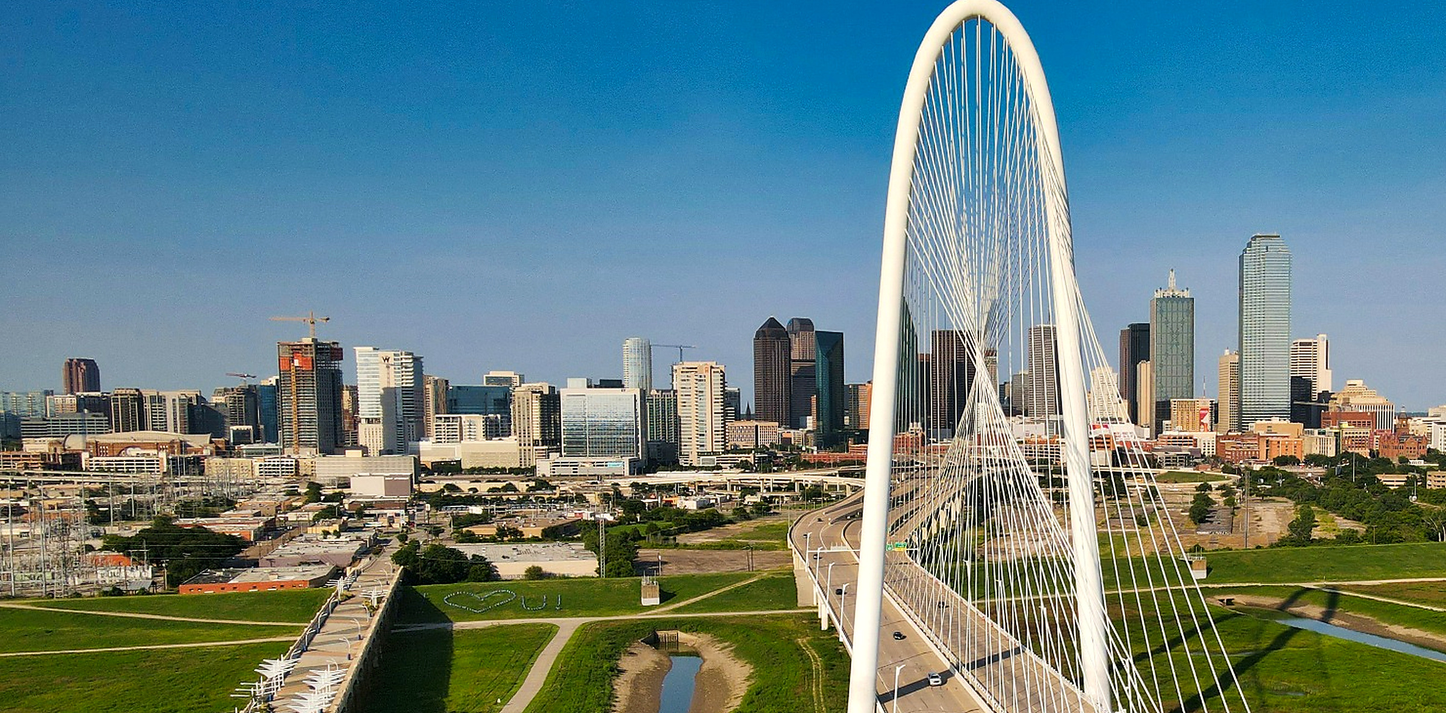
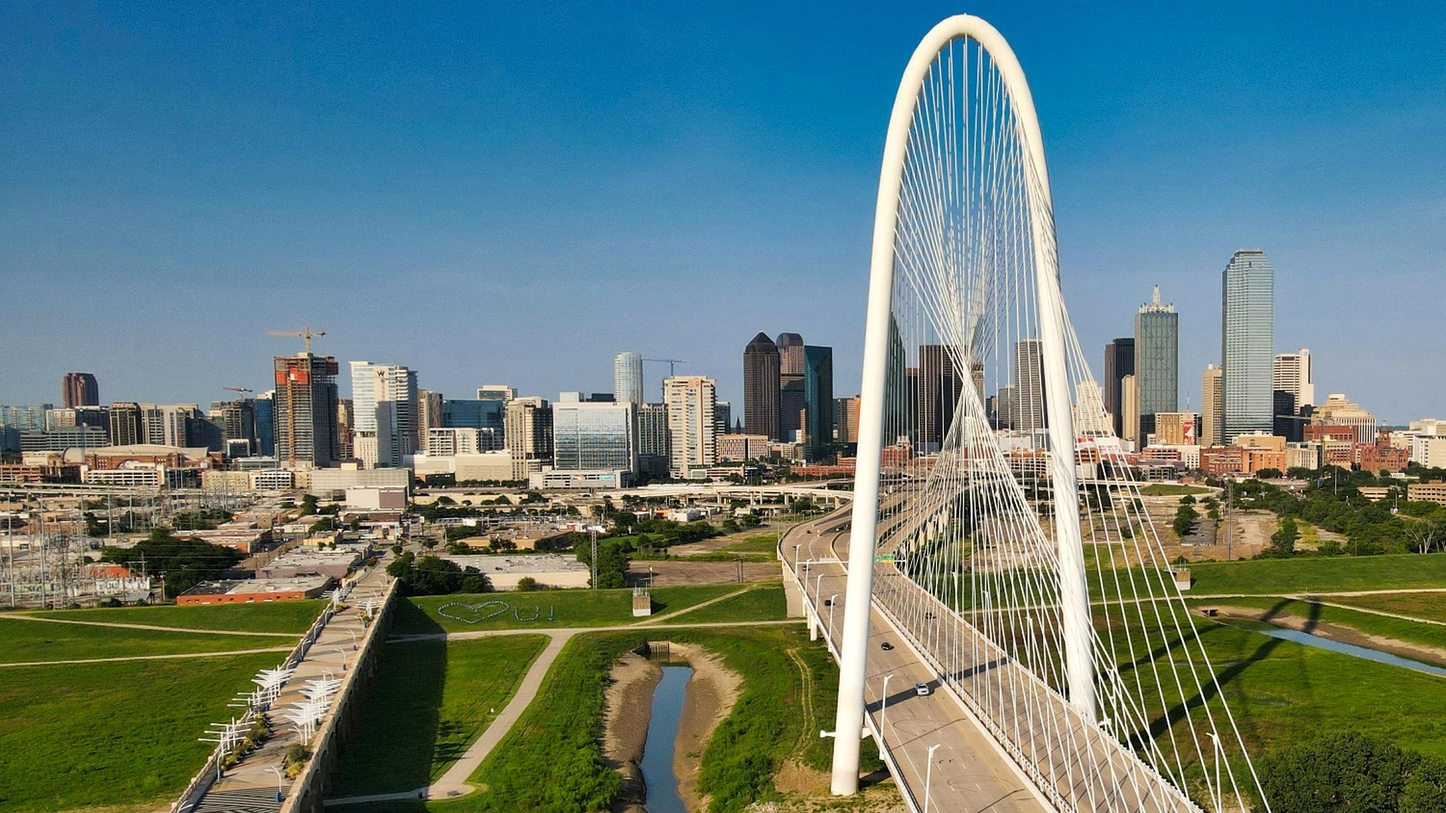
Modern Header and Typography Polish
Modern Header and Typography Polish

diff --git a/index.html b/index.html
@@ -7,24 +7,24 @@
 <meta content="Latitude Stone Real Estate Group provides strategic commercial real estate advisory and brokerage services across North Texas." name="description"/>
 <meta content="#040b12" name="theme-color"/>
 <title>Latitude Stone Real Estate Group</title>
-<link href="https://fonts.googleapis.com" rel="preconnect"/>
-<link crossorigin="" href="https://fonts.gstatic.com" rel="preconnect"/>
-<link href="https://fonts.googleapis.com/css2?family=DM+Sans:wght@300;400;500;600&amp;family=Libre+Caslon+Display&amp;display=swap" rel="stylesheet"/>
+
+
+
 <link href="styles.css" rel="stylesheet"/>
 </head>
-<body>
+<body class="home-page">
 <header class="site-header">
 <a aria-label="Latitude Stone home" class="wordmark" href="#home"><strong>LATITUDE STONE</strong><span>REAL ESTATE GROUP</span></a>
 <button aria-expanded="false" aria-label="Open navigation" class="menu-toggle"><span></span><span></span></button>
 <nav aria-label="Primary navigation">
 <a class="active" href="#home">Home</a>
-<a href="#what-we-do">What We Do</a>
-<a href="#market">Our Market</a>
+<a href="#what-we-do">What we do</a>
+<a href="#market">Our market</a>
 <a href="#darin">Meet Darin</a>
 <a href="#why">Why Latitude Stone</a>
-<a href="#insights">Market Intelligence</a>
+<a href="#insights">Market intelligence</a>
 </nav>
-<a class="outline-button header-cta" href="#contact">Schedule a Consultation</a>
+<a class="outline-button header-cta" href="#contact">Schedule a consultation</a>
 </header>
 <main>
 <section aria-label="Latitude Stone introduction" class="hero" id="home">
@@ -37,7 +37,7 @@
 <div class="hero-copy reveal">
 <h1>A Higher Perspective on Commercial Real Estate.</h1>
 <p class="hero-lead">Strategic advisory for investors, developers, property owners, and businesses across North Texas.</p>
-<a class="gold-button" href="#contact">Start the Conversation <span>→</span></a>
+<a class="gold-button" href="#contact">Start the conversation <span>→</span></a>
 </div>
 <div aria-label="Hero image controls" class="hero-dots">
 <button aria-label="Show architecture image" class="active"></button>
@@ -47,47 +47,47 @@
 </section>
 <section class="section section-dark services" id="what-we-do">
 <div class="section-heading reveal">
-<p class="eyebrow">What We Do</p>
-<h2>Strategic Solutions. Lasting Value.</h2>
+<p class="eyebrow">What we do</p>
+<h2>Strategic solutions. Lasting value.</h2>
 </div>
 <div class="service-grid">
 <article class="service-card reveal">
-<span aria-hidden="true" class="title-gold-rule"></span>
-<h3>Advisory Services</h3>
+
+<span class="title-divider"></span><h3>Advisory services</h3>
 <p>Strategic planning, market analysis, and tailored real estate guidance aligned with your investment goals and long-term business strategy.</p>
 </article>
 <article class="service-card reveal">
-<span aria-hidden="true" class="title-gold-rule"></span>
-<h3>Investment Sales</h3>
+
+<span class="title-divider"></span><h3>Investment sales</h3>
 <p>Positioning commercial assets to maximize value through targeted marketing, qualified buyer relationships, and disciplined transaction execution.</p>
 </article>
 <article class="service-card reveal">
-<span aria-hidden="true" class="title-gold-rule"></span>
-<h3>Property Disposition</h3>
+
+<span class="title-divider"></span><h3>Property disposition</h3>
 <p>Strategic planning and transaction execution designed to maximize asset value while delivering a seamless disposition process.</p>
 </article>
 <article class="service-card reveal">
-<span aria-hidden="true" class="title-gold-rule"></span>
-<h3>Tenant Representation</h3>
+
+<span class="title-divider"></span><h3>Tenant representation</h3>
 <p>Helping businesses secure the right location, negotiate favorable terms, and create occupancy strategies that support long-term success.</p>
 </article>
 <article class="service-card reveal">
-<span aria-hidden="true" class="title-gold-rule"></span>
-<h3>Property &amp; Asset Management</h3>
+
+<span class="title-divider"></span><h3>Property &amp; asset management</h3>
 <p>Protecting long-term asset value through proactive management, operational oversight, tenant coordination, and consistent financial discipline.</p>
 </article>
 </div>
 </section>
 <section class="section section-light market" id="market">
 <div class="market-copy reveal">
-<p class="eyebrow">Our Market</p>
-<h2>North Texas.<br/>Limitless Opportunities.</h2>
+<p class="eyebrow">Our market</p>
+<h2>North Texas.<br/>Limitless opportunities.</h2>
 <p class="body-copy">Latitude Stone provides strategic commercial real estate advisory and brokerage services across North Texas. From established urban centers to the region’s fastest-growing communities, we help clients capitalize on opportunities with confidence.</p>
 <div class="market-points">
-<article><span aria-hidden="true" class="title-gold-rule market-gold-rule"></span><div><h3>Regional Coverage</h3><p>Serving North Texas with local expertise and regional perspective.</p></div></article>
-<article><span aria-hidden="true" class="title-gold-rule market-gold-rule"></span><div><h3>Key Markets</h3><p>Frisco · Plano · McKinney · Prosper / Celina · Las Colinas · Melissa / Anna</p></div></article>
-<article><span aria-hidden="true" class="title-gold-rule market-gold-rule"></span><div><h3>Property Expertise</h3><p>Office · Industrial · Retail · Land · Mixed-Use</p></div></article>
-<article><span aria-hidden="true" class="title-gold-rule market-gold-rule"></span><div><h3>Market Intelligence</h3><p>Data-driven insights that support better real estate decisions.</p></div></article>
+<article><div><span class="title-divider market-divider"></span><h3>Regional coverage</h3><p>Serving North Texas with local expertise and regional perspective.</p></div></article>
+<article><div><span class="title-divider market-divider"></span><h3>Key markets</h3><p>Frisco · Plano · McKinney · Prosper / Celina · Las Colinas · Melissa / Anna</p></div></article>
+<article><div><span class="title-divider market-divider"></span><h3>Property expertise</h3><p>Office · Industrial · Retail · Land · Mixed-Use</p></div></article>
+<article><div><span class="title-divider market-divider"></span><h3>Market intelligence</h3><p>Data-driven insights that support better real estate decisions.</p></div></article>
 </div>
 </div>
 <div aria-label="Dallas Fort Worth Metroplex market map" class="market-map" role="img"></div>
@@ -96,49 +96,49 @@
 <div class="portrait-wrap reveal"><img alt="Darin Vilhauer, founder of Latitude Stone Real Estate Group" src="assets/darin-vilhauer.jpg"/></div>
 <div class="darin-copy reveal">
 <p class="eyebrow darin-eyebrow">Meet Darin</p>
-<h2>Experience That Brings Perspective.</h2>
+<h2>Experience that brings perspective.</h2>
 <p>Darin Vilhauer is a strategic real estate and operations executive with more than two decades of experience growing multi-unit businesses, improving performance, and maximizing portfolio value.</p>
 <p>Through Latitude Stone, Darin brings an owner-minded perspective to commercial real estate, combining market intelligence, disciplined execution, and a clear understanding of the operational decisions behind every property.</p>
 <p>His approach is straightforward: understand the client’s objectives, evaluate the opportunity from every angle, and provide thoughtful advice designed to create lasting value.</p>
 <div aria-label="Darin Vilhauer experience highlights" class="darin-details">
 <span>20+ Years of Leadership</span><span>$20M+ Closed Transactions</span><span>North Texas Focus</span>
 </div>
-<a class="gold-button compact" href="about.html">Read Darin’s Story <span>→</span></a>
+<a class="gold-button compact" href="about.html">Read Darin’s story <span>→</span></a>
 </div>
 </section>
 <section class="section section-dark why" id="why">
 <div class="why-intro reveal">
 <p class="eyebrow">Why Latitude Stone</p>
-<h2>Built on Strategy.<br/>Driven by Relationships.</h2>
+<h2>Built on strategy.<br/>Driven by relationships.</h2>
 <p>We help investors, businesses, and property owners make confident commercial real estate decisions that create lasting value.</p>
 </div>
 <div class="pillars">
-<article class="reveal"><span aria-hidden="true" class="title-gold-rule pillar-gold-rule"></span><h3>Strategic<br/>Advisory</h3><p>Every recommendation begins with understanding your objectives, not simply closing a transaction.</p></article>
-<article class="reveal"><span aria-hidden="true" class="title-gold-rule pillar-gold-rule"></span><h3>Trusted<br/>Relationships</h3><p>Long-term partnerships built through transparency, responsiveness, and accountability.</p></article>
-<article class="reveal"><span aria-hidden="true" class="title-gold-rule pillar-gold-rule"></span><h3>Local<br/>Expertise</h3><p>Deep knowledge of North Texas markets helps clients move with confidence.</p></article>
-<article class="reveal"><span aria-hidden="true" class="title-gold-rule pillar-gold-rule"></span><h3>Disciplined<br/>Execution</h3><p>From pricing strategy to closing, every detail is managed with precision.</p></article>
+<article class="reveal"><span class="title-divider pillar-divider"></span><h3>Strategic advisory</h3><p>Every recommendation begins with understanding your objectives, not simply closing a transaction.</p></article>
+<article class="reveal"><span class="title-divider pillar-divider"></span><h3>Trusted relationships</h3><p>Long-term partnerships built through transparency, responsiveness, and accountability.</p></article>
+<article class="reveal"><span class="title-divider pillar-divider"></span><h3>Local expertise</h3><p>Deep knowledge of North Texas markets helps clients move with confidence.</p></article>
+<article class="reveal"><span class="title-divider pillar-divider"></span><h3>Disciplined execution</h3><p>From pricing strategy to closing, every detail is managed with precision.</p></article>
 </div>
 </section>
 <section class="section section-light insights" id="insights">
 <div class="insight-intro reveal">
-<p class="eyebrow">Market Intelligence</p>
-<h2>Insights That Drive Results.</h2>
+<p class="eyebrow">Market intelligence</p>
+<h2>Insights that drive results.</h2>
 <p>Timely market perspectives and practical insights to help you make smarter commercial real estate decisions.</p>
 </div>
 <div class="insight-grid">
-<article class="reveal"><img alt="Dallas skyline at sunset" src="assets/insight-market.jpg"/><div><small>Market Outlook</small><h3>Q3 North Texas Market Outlook</h3><p>5 min read  ·  Read Insight →</p></div></article>
+<article class="reveal"><img alt="Dallas skyline at sunset" src="assets/insight-market.jpg"/><div><small>Market outlook</small><h3>Q3 North Texas Market Outlook</h3><p>5 min read  ·  Read Insight →</p></div></article>
 <article class="reveal"><img alt="Commercial development under construction" src="assets/insight-construction.jpg"/><div><small>Development</small><h3>Industrial Development Pipeline Remains Strong</h3><p>4 min read  ·  Read Insight →</p></div></article>
-<article class="reveal"><img alt="Mixed-use commercial development" src="assets/insight-mixed-use.jpg"/><div><small>Investment Insight</small><h3>Capital Markets Update: Opportunities Ahead</h3><p>6 min read  ·  Read Insight →</p></div></article>
+<article class="reveal"><img alt="Mixed-use commercial development" src="assets/insight-mixed-use.jpg"/><div><small>Investment insight</small><h3>Capital Markets Update: Opportunities Ahead</h3><p>6 min read  ·  Read Insight →</p></div></article>
 </div>
 </section>
 <section class="contact-cta" id="contact">
 <div class="cta-inner reveal">
 <div>
-<p class="eyebrow">Ready to Get Started?</p>
-<h2>Let’s Discuss Your Commercial Real Estate Goals.</h2>
+<p class="eyebrow">Ready to get started?</p>
+<h2>Let’s discuss your commercial real estate goals.</h2>
 <p>Whether you’re buying, selling, leasing, or investing, we’re ready to help you navigate your next opportunity.</p>
 </div>
-<a class="gold-button cta-button" href="mailto:info@latitudestonerealestate.com">Schedule a Consultation <span>→</span></a>
+<a class="gold-button cta-button" href="mailto:info@latitudestonerealestate.com">Schedule a consultation <span>→</span></a>
 </div>
 </section>
 </main>
@@ -146,8 +146,8 @@
 <div class="footer-grid">
 <div class="footer-brand"><strong>LATITUDE STONE</strong><span>REAL ESTATE GROUP</span><p>Boutique commercial real estate advisory and brokerage services throughout North Texas.</p></div>
 <div><b>Company</b><a href="#darin">About Us</a><a href="#why">Our Approach</a><a href="#contact">Careers</a><a href="#contact">Contact</a></div>
-<div><b>What We Do</b><a href="#what-we-do">Advisory Services</a><a href="#what-we-do">Investment Sales</a><a href="#what-we-do">Property Disposition</a><a href="#what-we-do">Tenant Representation</a><a href="#what-we-do">Property &amp; Asset Management</a></div>
-<div><b>Resources</b><a href="#insights">Market Intelligence</a><a href="#market">Our Market</a></div>
+<div><b>What we do</b><a href="#what-we-do">Advisory services</a><a href="#what-we-do">Investment sales</a><a href="#what-we-do">Property disposition</a><a href="#what-we-do">Tenant representation</a><a href="#what-we-do">Property &amp; asset management</a></div>
+<div><b>Resources</b><a href="#insights">Market intelligence</a><a href="#market">Our market</a></div>
 </div>
 <div class="footer-bottom"><p>© 2026 Latitude Stone Real Estate Group, LLC. All rights reserved.</p><p class="compliance-links"><a href="https://www.trec.texas.gov/forms/information-about-brokerage-services" rel="noopener" target="_blank">Information About Brokerage Services (IABS)</a><span>|</span><a href="https://www.trec.texas.gov/forms/consumer-protection-notice" rel="noopener" target="_blank">Consumer Protection Notice</a></p><p class="photo-credit">Dallas skyline photo: <a href="https://commons.wikimedia.org/wiki/File:Dallas_Skyline_at_Dusk.jpg" rel="noopener" target="_blank">Matthew T Rader, CC BY-SA 4.0</a></p></div>
 </footer>

diff --git a/styles.css b/styles.css
@@ -347,67 +347,71 @@ main section[id]{scroll-margin-top:76px}
 .hero-slide:nth-child(2){background-position:center 50%!important;filter:contrast(1.07) saturate(1.08)!important}
 
 
-/* v1.7 final: approved Dallas hero image and icon-free gold divider system */
-.hero-slide:nth-child(2){
-  background-image:url('assets/hero-dallas.jpg')!important;
-  background-position:center center!important;
-  background-size:cover!important;
-  filter:contrast(1.03) saturate(1.03)!important;
+/* v1.8 modern header, restrained gold, Avenir typography, no-icon system */
+:root{
+  --sans:'Avenir Next',Avenir,'Helvetica Neue',Helvetica,Arial,sans-serif;
+  --serif:var(--sans);
 }
-
-/* Remove all legacy icon artwork in the three approved sections. */
-#what-we-do .service-icon,
-#what-we-do .service-material-icon,
-#market .market-icon,
-#market .fa-market-icon,
-#market .market-material-icon,
-#why .pillar-icon,
-#why .pillar-material-icon{
-  display:none!important;
+body{font-family:var(--sans);font-weight:400}
+.home-page .site-header{
+  position:fixed;top:0;left:0;right:0;
+  background:linear-gradient(180deg,rgba(2,7,12,.62),rgba(2,7,12,.12));
+  border-bottom:1px solid rgba(255,255,255,.14);
+  backdrop-filter:none;
+  transition:background .28s ease,backdrop-filter .28s ease,border-color .28s ease;
 }
-
-/* Restrained gold divider replacing decorative icons. */
-.title-gold-rule{
-  display:block;
-  width:48px;
-  height:2px;
-  margin:10px auto 28px;
-  background:var(--gold);
-  border:0;
-  border-radius:0;
-  flex:0 0 auto;
+.home-page .site-header.scrolled{
+  background:rgba(3,9,15,.96);
+  backdrop-filter:blur(14px);
+  border-color:rgba(255,255,255,.1);
 }
-
-#what-we-do .service-card{
-  justify-content:flex-start;
+.wordmark{min-width:265px}
+.wordmark strong{font-size:20px;letter-spacing:.17em;font-weight:500}
+.wordmark span{font-size:9px;letter-spacing:.31em}
+.site-header nav a{
+  text-transform:none;font-size:12px;letter-spacing:0;font-weight:500;
 }
-#what-we-do .service-card .title-gold-rule{
-  margin-top:18px;
-  margin-bottom:26px;
+.outline-button,.gold-button{
+  background:transparent!important;color:var(--gold)!important;border:1px solid var(--gold)!important;
+  text-transform:none!important;font-size:12px!important;letter-spacing:.01em!important;font-weight:500!important;
+  transition:background .25s ease,color .25s ease,transform .25s ease!important;
 }
-#what-we-do .service-card h3{
-  margin-top:0;
+.outline-button:hover,.gold-button:hover{background:var(--gold)!important;color:var(--ink)!important;filter:none!important;transform:translateY(-2px)}
+.hero{min-height:100vh!important}
+.hero-copy{padding-top:150px!important}
+.hero h1{
+  font-family:var(--sans)!important;font-weight:700!important;letter-spacing:-.045em!important;
+  line-height:.98!important;font-size:clamp(58px,6vw,94px)!important;
 }
-
-#market .market-points article{
-  align-items:flex-start;
+.hero-slide:nth-child(2){background-position:center 48%!important;filter:contrast(1.04) saturate(1.04)!important}
+.section h2,.contact-cta h2,.insight-grid h3{
+  font-family:var(--sans)!important;font-weight:300!important;letter-spacing:-.04em!important;
 }
-#market .market-gold-rule{
-  width:34px;
-  height:2px;
-  margin:7px 16px 0 0;
+.eyebrow,.service-card h3,.market-points h3,.pillars h3,.insight-grid small,
+.darin-details span,.footer-grid b{
+  text-transform:none!important;letter-spacing:.04em!important;font-weight:500!important;
 }
-
-#why .pillar-gold-rule{
-  width:42px;
-  margin-top:8px;
-  margin-bottom:24px;
+.eyebrow{font-size:14px}
+.service-card h3,.pillars h3{font-size:15px}
+.title-divider{
+  display:block;width:44px;height:1px;background:var(--gold);margin:16px auto 24px;
 }
-#why .pillars article h3{
-  margin-top:0;
+.service-card .title-divider{margin-top:18px}
+.service-card{justify-content:flex-start;padding-top:48px}
+.service-card img.service-icon,.service-card svg,.service-card .service-material-icon,.service-card .fa-icon,
+.market-points img.market-icon,.market-points svg,.market-points .market-material-icon,.market-points .fa-market-icon,
+.pillars img.pillar-icon,.pillars svg{display:none!important}
+.market-points article{display:block!important}
+.market-points .market-divider{margin:0 0 14px}
+.pillars article{
+  grid-template-rows:44px 58px auto!important;padding-top:8px!important;
 }
-
-@media(max-width:760px){
-  #market .market-gold-rule{margin-right:12px}
-  .title-gold-rule{width:42px}
+.pillars .pillar-divider{margin:0 auto 20px}
+.pillars h3{align-self:start}
+.insight-grid h3{font-size:22px}
+#insights .insight-intro h2{font-weight:300!important}
+@media(max-width:860px){
+  .home-page .site-header{background:rgba(3,9,15,.9)}
+  .hero-copy{padding-top:125px!important}
+  .wordmark strong{font-size:18px}
 }

diff --git a/script.js b/script.js
@@ -27,3 +27,9 @@ headerConsultation?.addEventListener('click',(event)=>{
   event.preventDefault();
   window.scrollTo({top:document.documentElement.scrollHeight-window.innerHeight,behavior:reduceMotion?'auto':'smooth'});
 });
+
+
+const siteHeader=document.querySelector('.site-header');
+const updateHeaderState=()=>siteHeader?.classList.toggle('scrolled',window.scrollY>48);
+updateHeaderState();
+window.addEventListener('scroll',updateHeaderState,{passive:true});
